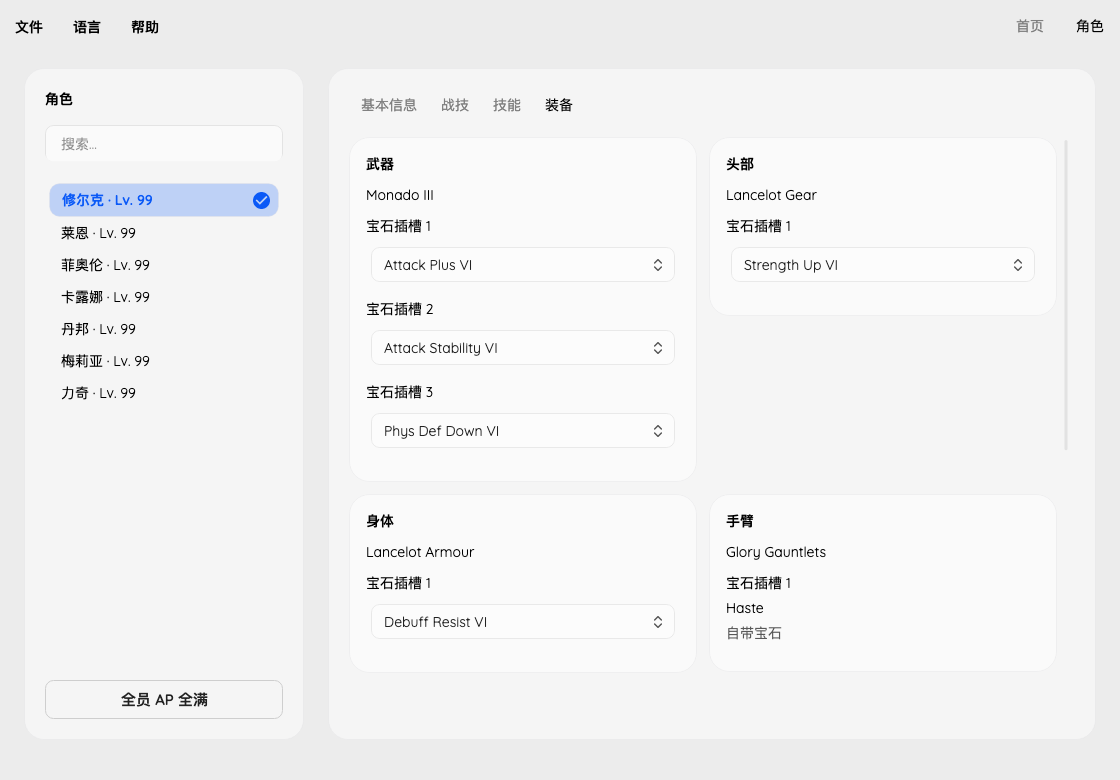
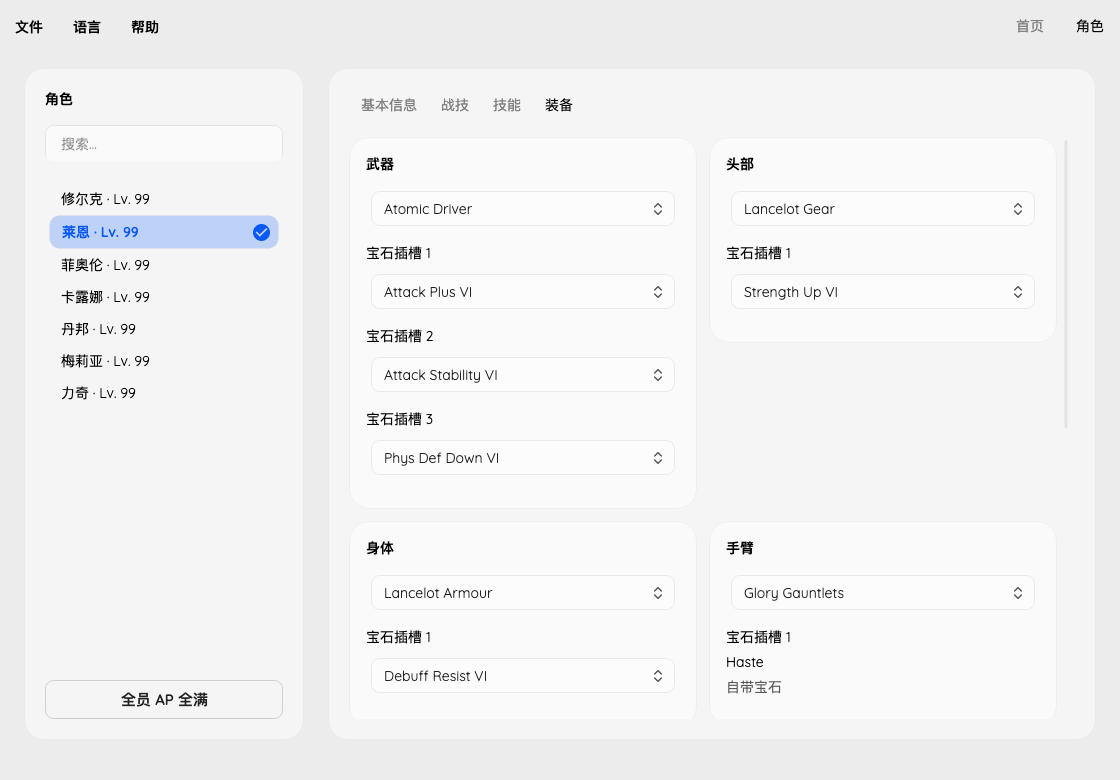
docs: document equipment switching and refresh screenshot

diff --git a/docs/equipment.md b/docs/equipment.md
@@ -46,6 +46,34 @@ unconfirmed campaign reject edits. Setters validate the complete request before
 changing bytes. Selecting a gem applies it to the in-memory document; File →
 Save or Save As writes the file.
 
+## Weapon and armor selection
+
+Selectors list owned, structurally valid items for that slot and character.
+Items already referenced by another joined character are excluded, even if that
+character's reference has an invalid type. Shared current references cannot be
+switched. The inventory record's armor class must match the extracted table.
+Only duplicate names include an inventory index to distinguish individual items.
+
+Main-story medium and heavy armor require a learned equipment skill or an
+existing link to a learned skill in the correct donor row. Medium skills are
+1, 26, 51, 76 and 101; heavy skills are 31, 98, 115 and 141. Hidden branches must
+already be unlocked. Link entries are inspected, not added or rewritten.
+The eight donor rows contain five one-byte skill IDs each at character `+0xC4`.
+Mechon Fiora is restricted to her weapon/armor definitions. Human Fiora is not
+offered heavy armor. Future Connected does not use passive skill trees and
+allows normal armor classes for characters supported by the equipment table.
+
+Flag-zero ordinary weapons and Mechon Fiora's flag-three weapons are selectable.
+Other flagged weapons are conservatively excluded from switching,
+including a currently equipped story-flagged Monado. Their existing gems can
+still be edited. Unknown campaigns, malformed items and absent characters reject
+switches rather than constructing a replacement. Appearance is not changed.
+
+Selecting an item changes only the four-byte character equipment reference.
+The new item's fixed/normal gems, damage values and other inventory bytes are
+preserved. The old item and its gems remain in inventory. File → Save persists
+the edit; no equipment is created, deleted or moved between inventory records.
+
 ## Evidence and limits
 
 Field layouts were checked against the documented
@@ -55,6 +83,19 @@ from the game-data [item](https://xenoblade.github.io/xb1de/bdat/bdat_common/ITM
 and [skill](https://xenoblade.github.io/xb1de/bdat/bdat_common/BTL_skilllist.html) tables.
 No upstream parser code is included.
 
+Eligibility metadata comes from the extracted
+[weapon](https://xenoblade.github.io/xb1de/bdat/bdat_common/ITM_wpnlist.html) and
+[armor](https://xenoblade.github.io/xb1de/bdat/bdat_common/ITM_equiplist.html)
+tables, mapped through global item references rather than table row numbers.
+Equipment slots use the item table's type: Mechon Fiora's armor `parts` values
+do not follow the normal head/torso/arms/legs/feet convention.
+The 1,572 mapped definitions are reproducible with
+`uv run --with beautifulsoup4 python tools/fetch_equipment_rules.py` (JSON output).
+Armor skills were checked against `BTL_PSVskill` and the passive skill catalog.
+In the supplied executable (build ID `7E1DF8E08D60544BBDCA1E333C153C97`),
+the armor initializer at `0xBDAC0` stores table `arm_type` at inventory `+0x14`
+and `jwl_slot` at `+0x15`. This field is an armor class, not an editable weight.
+
 Core tests cover both campaigns, index-zero gems, fixed sockets, empty sockets,
 duplicate use, cylinders, malformed references, invalid quantities and atomic
 rejection. Real-save tests change copies in memory and require every byte outside
@@ -62,6 +103,12 @@ the intended normal reference to remain identical. CLI and GUI tests exercise
 selection/removal, saving and invalid operations. GUI tests also check nine
 language switches and page spacing at normal and reduced window sizes.
 
-Weapon/armor selection, appearance editing, gem creation and effect/rank editing
+Switching tests cover both campaigns, incompatible characters, medium/heavy
+permissions and donor rows, Mechon Fiora, protected weapons, occupied and malformed
+records, rejected edits and exact restoration when switching back. Every offered
+equipment choice in all supplied saves is exercised on an in-memory copy, with
+all bytes outside the character reference required to remain identical.
+
+Story-weapon switching, appearance editing, gem creation and effect/rank editing
 are not implemented. In-game loading still needs user verification; lossless
 round trips and isolated byte changes are not proof of every gameplay rule.

diff --git a/README.md b/README.md
@@ -11,7 +11,7 @@ Edit Xenoblade Chronicles: Definitive Edition saves, including Future Connected.
 - **Characters:** Search joined characters, select a level and edit linked EXP, AP, main-story Affinity Coins and Expert Mode reserve EXP. Maximize AP for one character or everyone already joined, or fill a character's reserve EXP. The highest attained level is available for inspection. Character names switch with the interface language. Future Connected does not expose Affinity Coin editing.
 - **Arts:** In Characters → Arts, inspect learned and missing arts, select a level or maximize one art or all learned arts for the current character. Limits account for the campaign, Master books and Monado story permissions; fixed Talent Arts remain read-only. Melia's discharge levels stay linked to their summon arts. The same operations are available in the CLI.
 - **Skills:** In Characters → Skills, view each passive skill tree, change how many skills are learned and edit remaining SP. Learn every skill in one tree, for the selected character or for all joined characters. Hidden trees retain their task unlock state; skill links remain unchanged. Skill trees are not available in Future Connected. Matching CLI commands are included.
-- **Equipment:** In Characters → Equipment, inspect the current weapon and five armor pieces. Fit or remove owned normal gems in existing sockets; gems already fitted to any other item are excluded, even when that item is not equipped. Built-in gems remain read-only. Weapon, armor and appearance switching are not available yet. Matching CLI commands are included.
+- **Equipment:** In Characters → Equipment, change weapons and armor to compatible items already in inventory. Other characters' equipped items are excluded, and each selected item keeps its gems. Medium/heavy armor checks learned skills and existing skill links; Mechon Fiora uses her own equipment types. Story-flagged weapons remain protected. Fit or remove owned normal gems in existing sockets; gems fitted to any other item are excluded, even when that item is unequipped. Built-in gems and appearance remain unchanged. Matching CLI commands are included.
 - **CLI:** Inspect saves as JSON, copy them or edit resources without changing unknown data.
 
 English is the default language. The interface also supports Simplified Chinese,

diff --git a/CLI.md b/CLI.md
@@ -23,6 +23,7 @@ XbdeEditor.Cli max-skill-tree bfsgame00.sav edited.sav 1 1
 XbdeEditor.Cli max-skills bfsgame00.sav edited.sav 1
 XbdeEditor.Cli max-all-skills bfsgame00.sav edited.sav
 XbdeEditor.Cli equipment bfsgame00.sav 1
+XbdeEditor.Cli equip bfsgame00.sav edited.sav 2 Weapon 7
 XbdeEditor.Cli equipment-gem bfsgame00.sav edited.sav 1 Weapon 1 3
 XbdeEditor.Cli equipment-gem bfsgame00.sav edited.sav 1 Weapon 1 none
 ```
@@ -75,7 +76,7 @@ Existing unusual values remain intact unless explicitly normalized. See
 [skill validation](docs/skills.md).
 
 `equipment` lists the current weapon and armor references, socket contents and
-available normal gems as JSON. Equipment slots use `Weapon`, `Head`, `Torso`,
+available items and normal gems as JSON. Equipment slots use `Weapon`, `Head`, `Torso`,
 `Arms`, `Legs` or `Feet`; sockets are one-based. Gem indices are zero-based
 inventory references returned in `AvailableGems`, not effect IDs. Gem index zero
 is valid; use `none` to empty a normal socket. The JSON gem `Value` is the raw
@@ -86,3 +87,11 @@ cylinders, missing/invalid gems, already-fitted gems, unsupported references and
 out-of-range indices. Ownership checks include unequipped inventory equipment.
 It does not create gems or change equipment, appearance, rank or effect strength.
 See [equipment validation](docs/equipment.md).
+
+`equip` switches one equipment reference to an index returned in `AvailableItems`.
+Indices are zero-based and specific to that slot's inventory bank, not global
+item IDs. Selection requires an owned, compatible item not equipped by another
+joined character. Main-story armor permissions account for learned skills and
+existing links; story-flagged weapons remain protected. The target equipment and
+all of its gems stay byte-identical. No command creates equipment or changes its
+appearance. `CanSwitch: false` means the current item cannot safely be switched.

diff --git a/docs/roadmap.md b/docs/roadmap.md
@@ -14,7 +14,8 @@ Each feature is committed separately with core tests and matching CLI support.
 - [x] Skills: inspect hidden-tree unlocks, edit learned count/remaining SP and maximize unlocked trees, with CLI support.
 - [ ] Skills: localized game names and skill-link editing.
 - [x] Equipment: resolve equipped inventory items, inspect fixed gems and fit/remove owned normal gems, with CLI support.
-- [ ] Equipment: validated weapon/armor switching, appearance and localized game names.
+- [x] Equipment: validated owned weapon/armor switching with character and armor-skill restrictions, preserving gems and protecting story weapons.
+- [ ] Equipment: story-weapon switching, appearance and localized game names.
 - [ ] Items: localized catalogs and validated editing.
 - [ ] Party: reorder existing members without altering recruitment.
 
